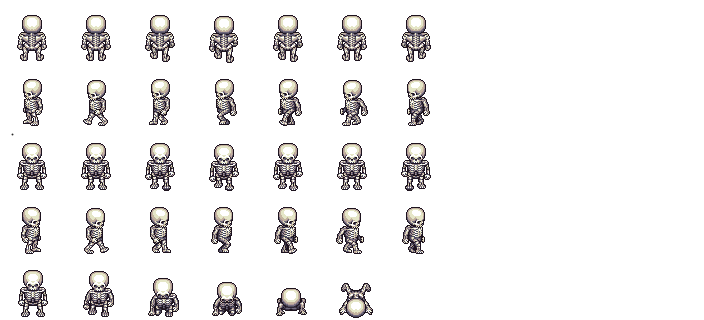
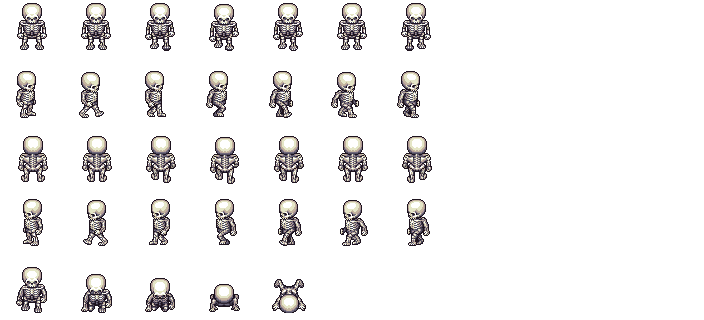
Skeleton is now inicialized

diff --git a/TowerDefenseGame/TowerDefenseGame/Resources/SpritesManager.cs b/TowerDefenseGame/TowerDefenseGame/Resources/SpritesManager.cs
@@ -56,10 +56,10 @@ namespace TowerDefenseGame.Resources
 
                 for (int col = 0; col < SpriteSheetCols; col++)
                 {
-                    GoblinSprites[row][col] = new CroppedBitmap(
-                        goblinSpriteSheet,
-                        new Int32Rect(directionMultiplierX * col,
-                        directionMultiplierY * row, 60, 57));
+                    //GoblinSprites[row][col] = new CroppedBitmap(
+                    //    goblinSpriteSheet,
+                    //    new Int32Rect(directionMultiplierX * col,
+                    //    directionMultiplierY * row, 60, 57));
                     SkeletonSprites[row][col] = new CroppedBitmap(
                         skeletonSpriteSheet,
                         new Int32Rect(directionMultiplierX * col,

diff --git a/TowerDefenseGame/TowerDefenseGame/Models/Enemies/Enemy.cs b/TowerDefenseGame/TowerDefenseGame/Models/Enemies/Enemy.cs
@@ -174,7 +174,7 @@ namespace TowerDefenseGame.Models.Enemies
             if (frameCounter >= 1 + (this.Debuff.SpeedEffect * 2))
             {
                 frameCounter = 0;
-                this.Model.Fill = new ImageBrush(SpritesManager.GoblinSprites[(int)this.currentState][this.spriteFrameCounter]);
+                this.Model.Fill = new ImageBrush(SpritesManager.SkeletonSprites[(int)this.currentState][this.spriteFrameCounter]);
 
                 spriteFrameCounter--;
             }

diff --git a/TowerDefenseGame/TowerDefenseGame/Models/Enemies/BasicEnemy.cs b/TowerDefenseGame/TowerDefenseGame/Models/Enemies/BasicEnemy.cs
@@ -15,7 +15,7 @@ namespace TowerDefenseGame.Models.Enemies
 
 
         private static readonly BitmapImage EnemySpriteSheet = new BitmapImage(
-            new Uri(@"..\..\Resources\goblinsword.png",
+            new Uri(@"..\..\Resources\Skeleton.png",
                     UriKind.Relative));
 
         public BasicEnemy(double x, double y)
